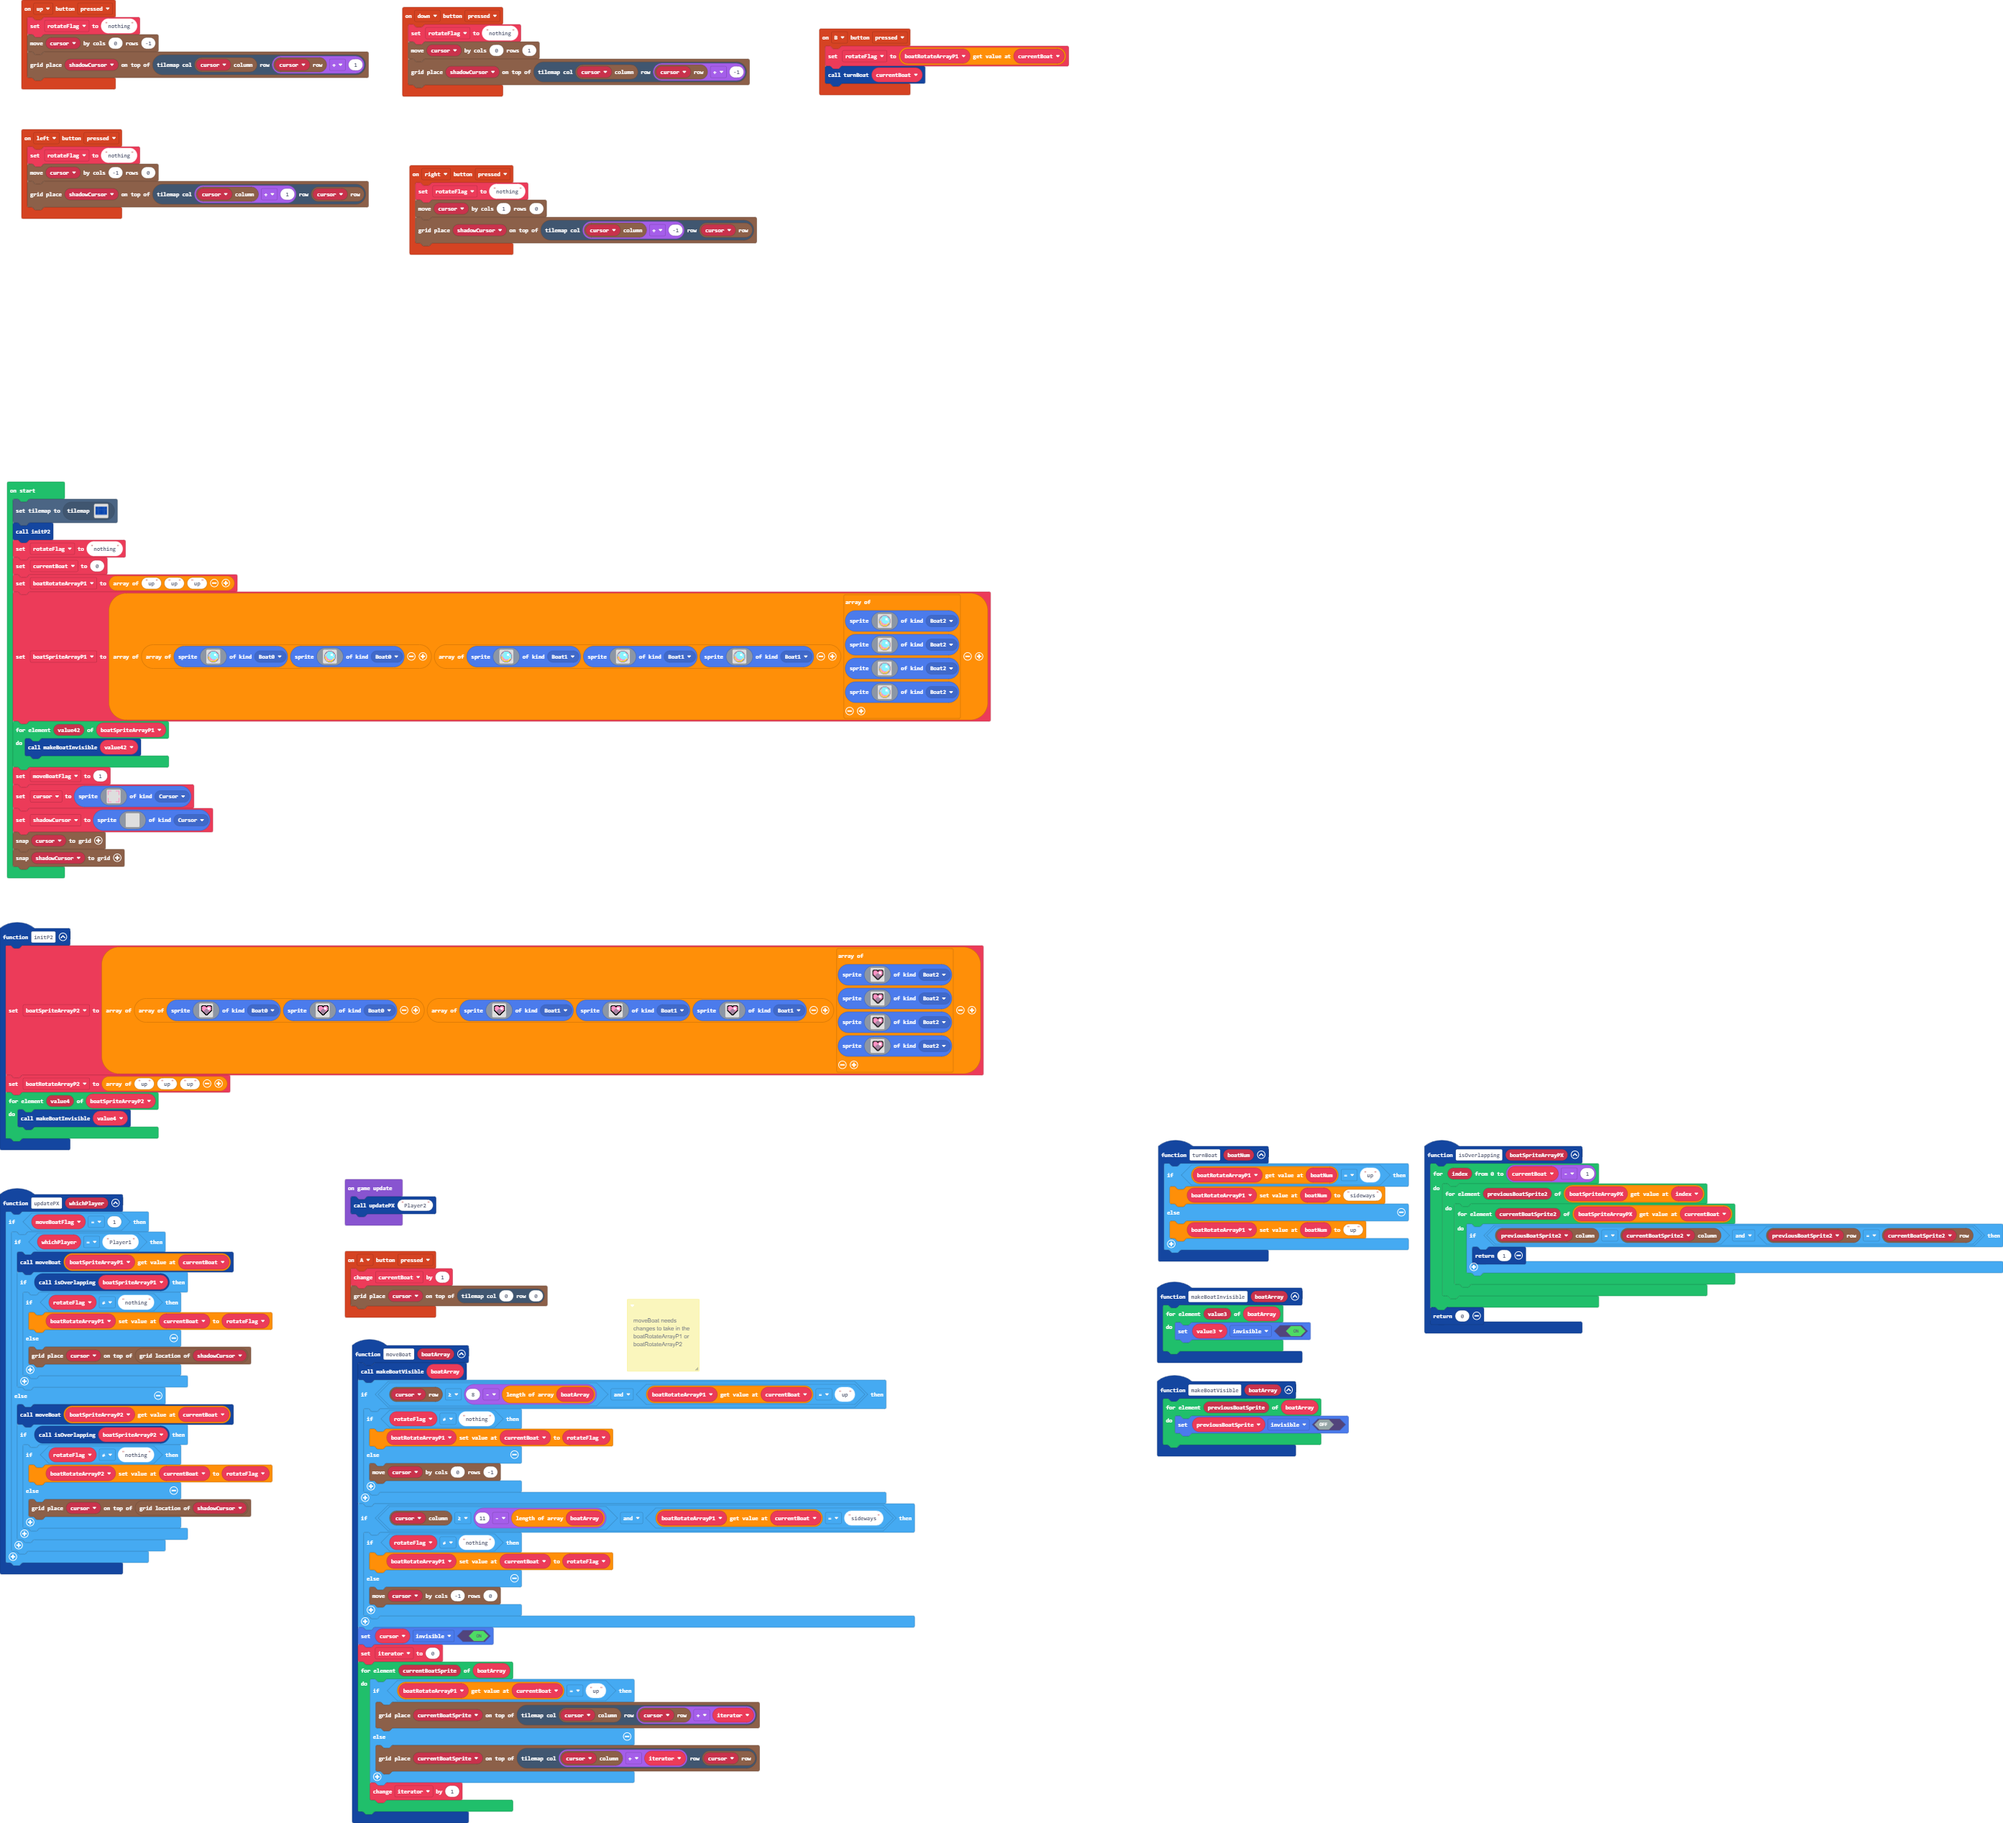
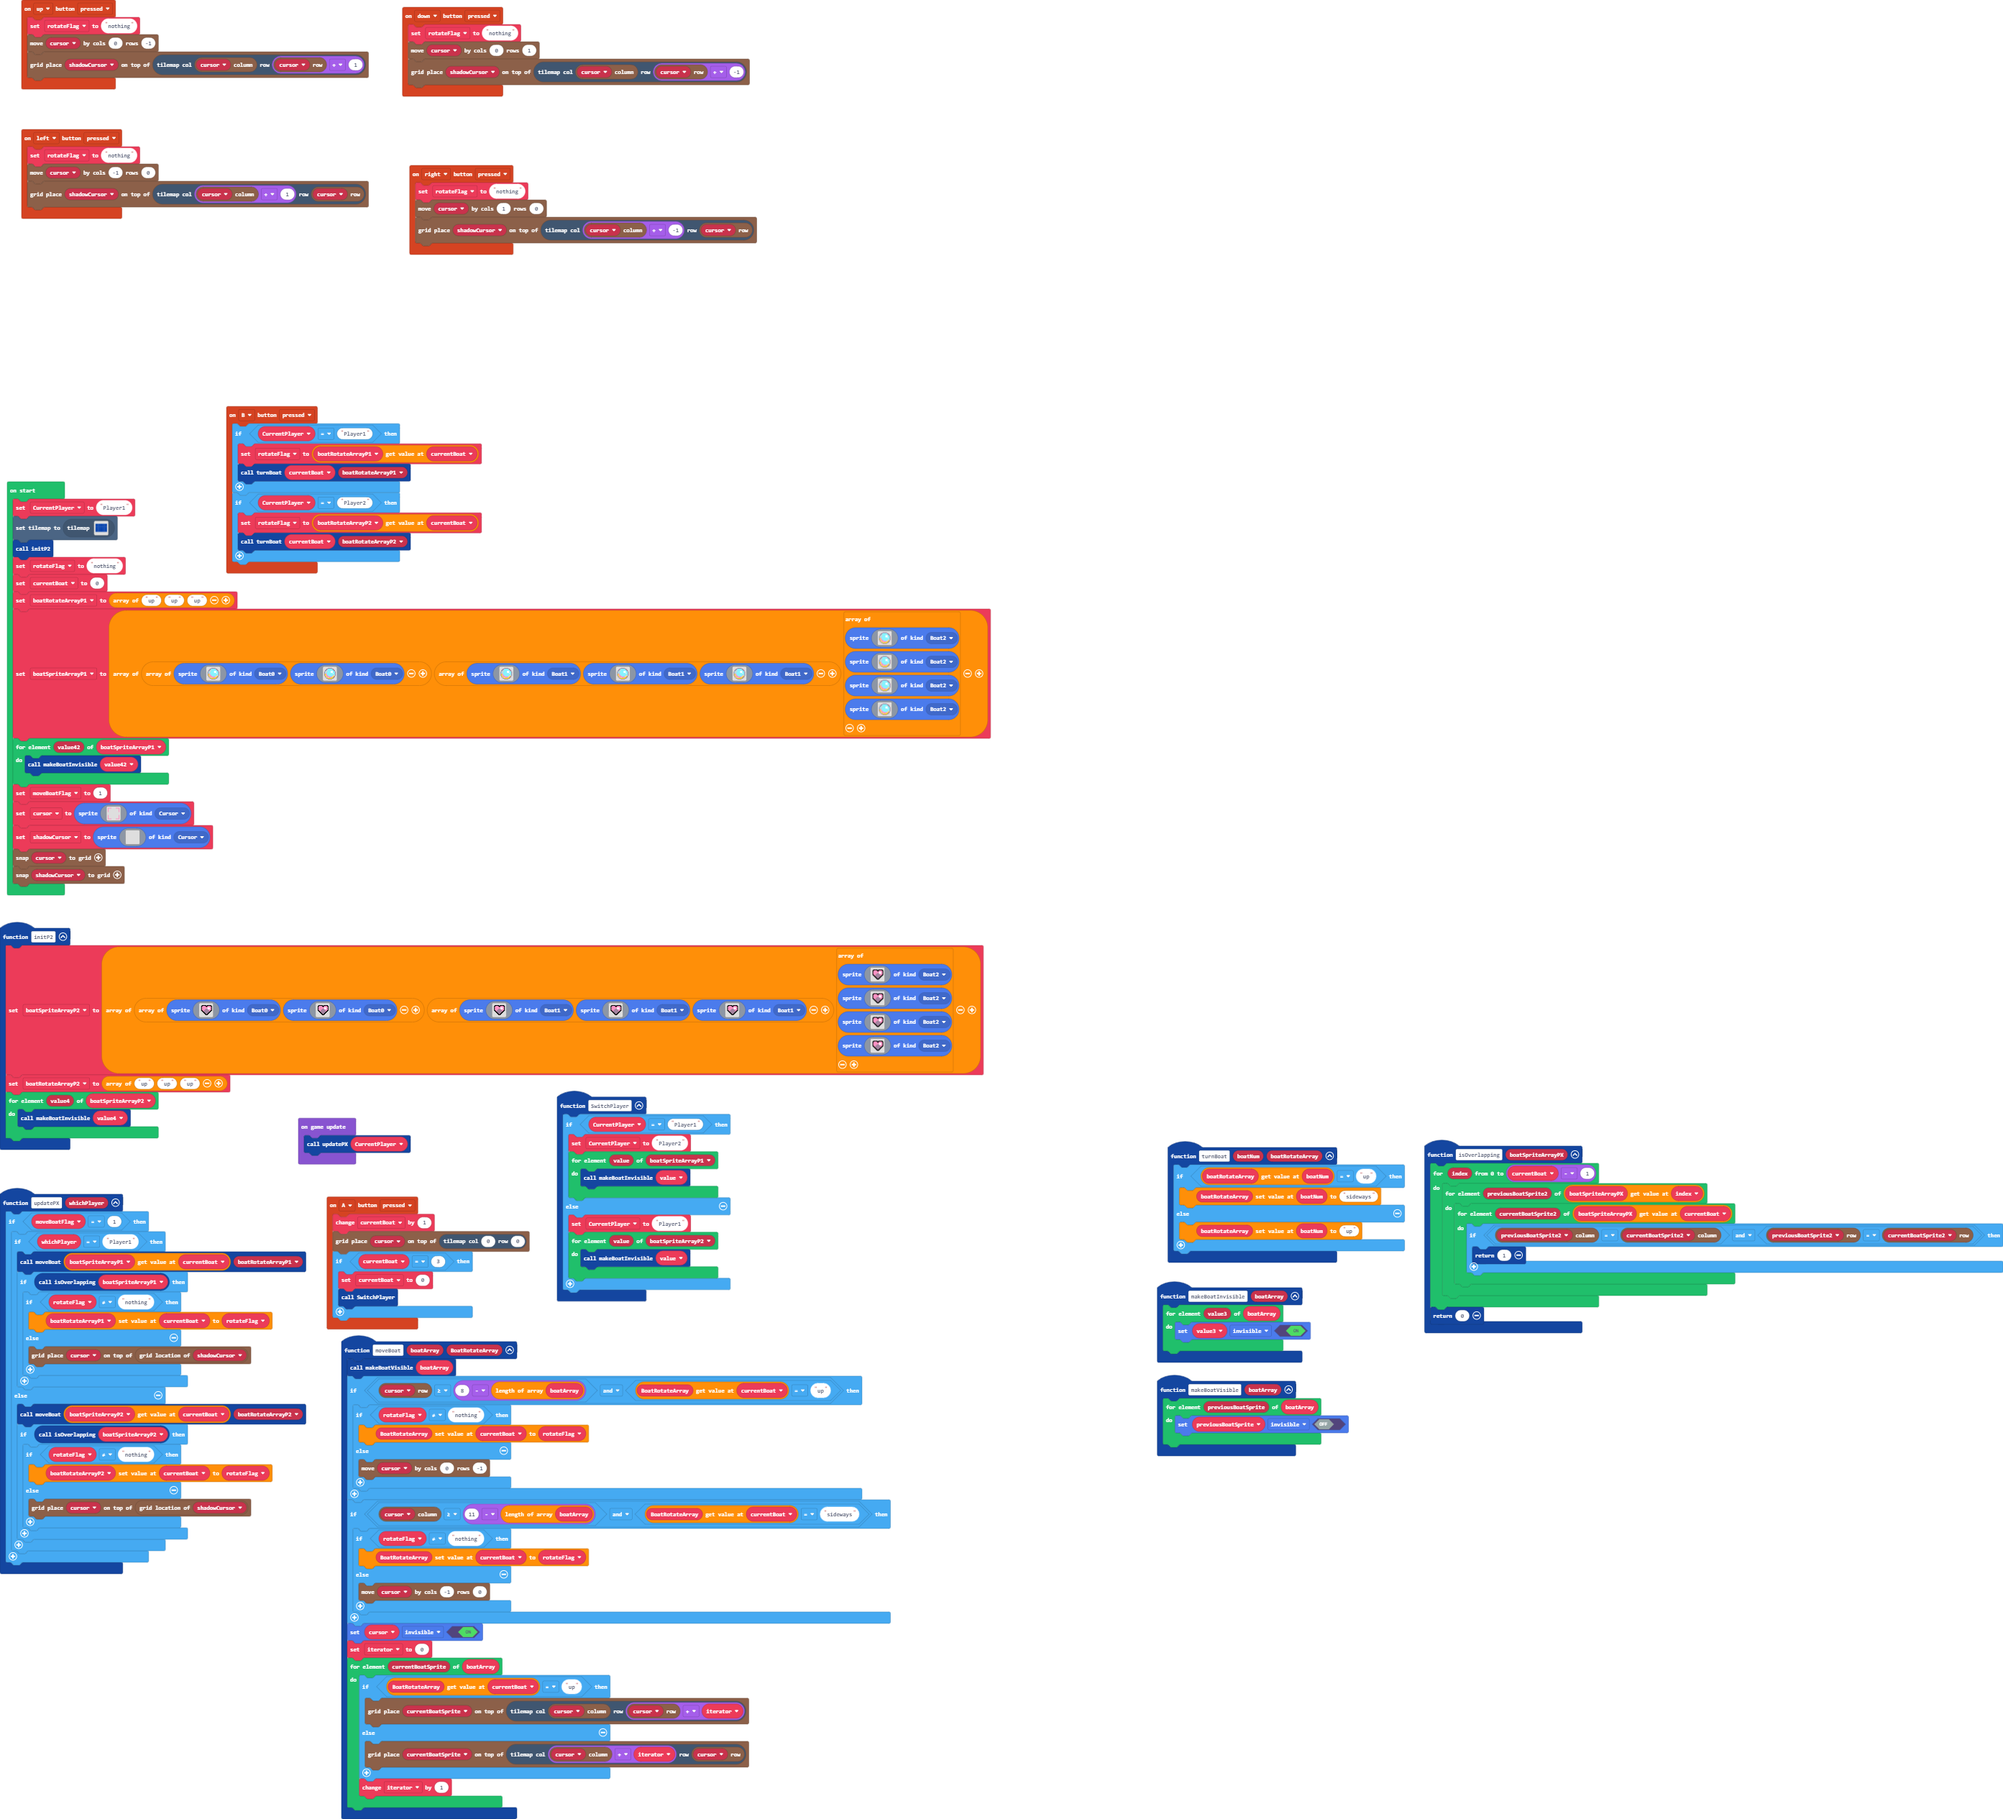
player switching

diff --git a/main.ts b/main.ts
@@ -4,6 +4,19 @@ namespace SpriteKind {
     export const Boat1 = SpriteKind.create()
     export const Boat2 = SpriteKind.create()
 }
+function SwitchPlayer () {
+    if (CurrentPlayer == "Player1") {
+        CurrentPlayer = "Player2"
+        for (let value of boatSpriteArrayP1) {
+            makeBoatInvisible(value)
+        }
+    } else {
+        CurrentPlayer = "Player1"
+        for (let value of boatSpriteArrayP2) {
+            makeBoatInvisible(value)
+        }
+    }
+}
 controller.up.onEvent(ControllerButtonEvent.Pressed, function () {
     rotateFlag = "nothing"
     grid.move(cursor, 0, -1)
@@ -12,7 +25,7 @@ controller.up.onEvent(ControllerButtonEvent.Pressed, function () {
 function updatePX (whichPlayer: string) {
     if (moveBoatFlag == 1) {
         if (whichPlayer == "Player1") {
-            moveBoat(boatSpriteArrayP1[currentBoat])
+            moveBoat(boatSpriteArrayP1[currentBoat], boatRotateArrayP1)
             if (isOverlapping(boatSpriteArrayP1)) {
                 if (rotateFlag != "nothing") {
                     boatRotateArrayP1[currentBoat] = rotateFlag
@@ -21,7 +34,7 @@ function updatePX (whichPlayer: string) {
                 }
             }
         } else {
-            moveBoat(boatSpriteArrayP2[currentBoat])
+            moveBoat(boatSpriteArrayP2[currentBoat], boatRotateArrayP2)
             if (isOverlapping(boatSpriteArrayP2)) {
                 if (rotateFlag != "nothing") {
                     boatRotateArrayP2[currentBoat] = rotateFlag
@@ -33,8 +46,14 @@ function updatePX (whichPlayer: string) {
     }
 }
 controller.B.onEvent(ControllerButtonEvent.Pressed, function () {
-    rotateFlag = boatRotateArrayP1[currentBoat]
-    turnBoat(currentBoat)
+    if (CurrentPlayer == "Player1") {
+        rotateFlag = boatRotateArrayP1[currentBoat]
+        turnBoat(currentBoat, boatRotateArrayP1)
+    }
+    if (CurrentPlayer == "Player2") {
+        rotateFlag = boatRotateArrayP2[currentBoat]
+        turnBoat(currentBoat, boatRotateArrayP2)
+    }
 })
 function makeBoatVisible (boatArray: Sprite[]) {
     for (let previousBoatSprite of boatArray) {
@@ -44,6 +63,10 @@ function makeBoatVisible (boatArray: Sprite[]) {
 controller.A.onEvent(ControllerButtonEvent.Pressed, function () {
     currentBoat += 1
     grid.place(cursor, tiles.getTileLocation(0, 0))
+    if (currentBoat == 3) {
+        currentBoat = 0
+        SwitchPlayer()
+    }
 })
 controller.left.onEvent(ControllerButtonEvent.Pressed, function () {
     rotateFlag = "nothing"
@@ -55,21 +78,18 @@ controller.right.onEvent(ControllerButtonEvent.Pressed, function () {
     grid.move(cursor, 1, 0)
     grid.place(shadowCursor, tiles.getTileLocation(grid.spriteCol(cursor) + -1, grid.spriteRow(cursor)))
 })
-/**
- * moveBoat needs changes to take in the boatRotateArrayP1 or boatRotateArrayP2
- */
-function moveBoat (boatArray: any[]) {
+function moveBoat (boatArray: any[], BoatRotateArray: string[]) {
     makeBoatVisible(boatArray)
-    if (grid.spriteRow(cursor) >= 8 - boatArray.length && boatRotateArrayP1[currentBoat] == "up") {
+    if (grid.spriteRow(cursor) >= 8 - boatArray.length && BoatRotateArray[currentBoat] == "up") {
         if (rotateFlag != "nothing") {
-            boatRotateArrayP1[currentBoat] = rotateFlag
+            BoatRotateArray[currentBoat] = rotateFlag
         } else {
             grid.move(cursor, 0, -1)
         }
     }
-    if (grid.spriteCol(cursor) >= 11 - boatArray.length && boatRotateArrayP1[currentBoat] == "sideways") {
+    if (grid.spriteCol(cursor) >= 11 - boatArray.length && BoatRotateArray[currentBoat] == "sideways") {
         if (rotateFlag != "nothing") {
-            boatRotateArrayP1[currentBoat] = rotateFlag
+            BoatRotateArray[currentBoat] = rotateFlag
         } else {
             grid.move(cursor, -1, 0)
         }
@@ -77,7 +97,7 @@ function moveBoat (boatArray: any[]) {
     cursor.setFlag(SpriteFlag.Invisible, true)
     iterator = 0
     for (let currentBoatSprite of boatArray) {
-        if (boatRotateArrayP1[currentBoat] == "up") {
+        if (BoatRotateArray[currentBoat] == "up") {
             grid.place(currentBoatSprite, tiles.getTileLocation(grid.spriteCol(cursor), grid.spriteRow(cursor) + iterator))
         } else {
             grid.place(currentBoatSprite, tiles.getTileLocation(grid.spriteCol(cursor) + iterator, grid.spriteRow(cursor)))
@@ -260,11 +280,11 @@ function makeBoatInvisible (boatArray: Sprite[]) {
         value3.setFlag(SpriteFlag.Invisible, true)
     }
 }
-function turnBoat (boatNum: number) {
-    if (boatRotateArrayP1[boatNum] == "up") {
-        boatRotateArrayP1[boatNum] = "sideways"
+function turnBoat (boatNum: number, boatRotateArray: string[]) {
+    if (boatRotateArray[boatNum] == "up") {
+        boatRotateArray[boatNum] = "sideways"
     } else {
-        boatRotateArrayP1[boatNum] = "up"
+        boatRotateArray[boatNum] = "up"
     }
 }
 function isOverlapping (boatSpriteArrayPX: Sprite[][]) {
@@ -289,6 +309,8 @@ let boatSpriteArrayP1: Sprite[][] = []
 let boatRotateArrayP1: string[] = []
 let currentBoat = 0
 let rotateFlag = ""
+let CurrentPlayer = ""
+CurrentPlayer = "Player1"
 tiles.setCurrentTilemap(tilemap`level1`)
 initP2()
 rotateFlag = "nothing"
@@ -504,5 +526,5 @@ shadowCursor = sprites.create(img`
 grid.snap(cursor)
 grid.snap(shadowCursor)
 game.onUpdate(function () {
-    updatePX("Player2")
+    updatePX(CurrentPlayer)
 })
